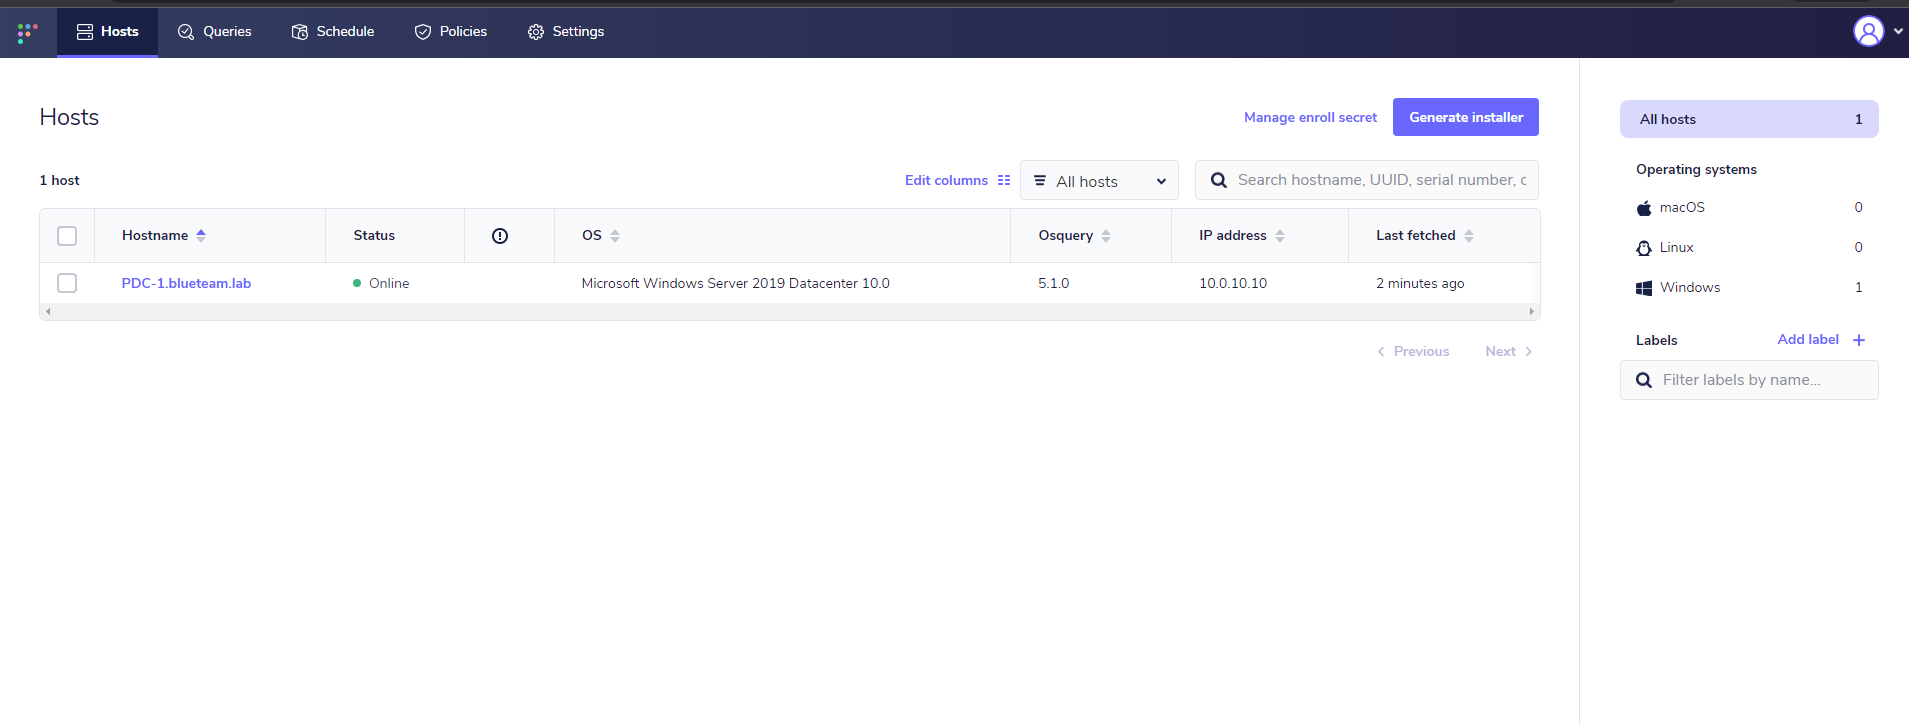
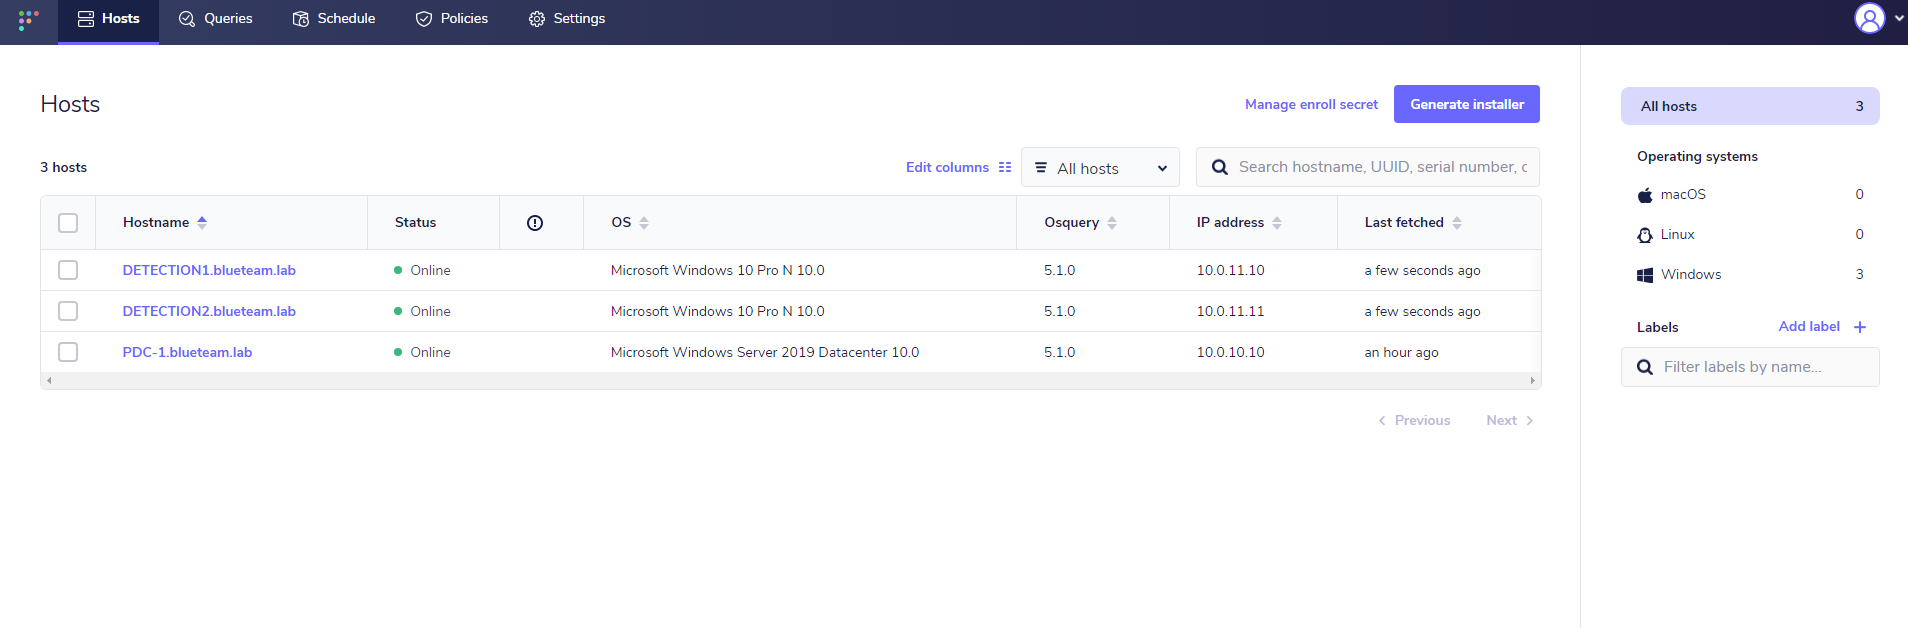
documentation

diff --git a/README.md b/README.md
@@ -1,8 +1,9 @@
 # BlueTeam.Lab
 
 <p align="center">
-  <img src="https://github.com/op7ic/BlueTeam.Lab/blob/main/documentation/pic/logo.PNG?raw=true" alt="BlueTeam.Lab"/>
+  <img src="https://github.com/op7ic/BlueTeam.Lab/blob/master/documentation/pic/logo.PNG" alt="BlueTeam.Lab"/>
 </p>
+
 
 # Purpose
 
@@ -69,14 +70,38 @@ cd ansible && ANSIBLE_CONFIG=./ansible.cfg ansible-inventory -i inventory.azure_
 
 # Once done, destroy your lab using following command:
 terraform destroy -auto-approve
+
+#NOTE: It will take about an hour to configure it all.
 ```
+
+# Deploying Different Windows Versions
+
+Terraform [variables](variables.tf) set the type of operating systems used for the deployment. A simple modification to runtime variables allows to specify different OS to run entire Active Directory on. Default option is to use Windows 10 Enterprise for **Workstations** and Server 2019 Datacenter for **Domain Controller**. Here are examples of few common configuration options that can be used for modify entire enviroment:
+
+```
+# Use Windows 10 Enterprise for Workstations and Server 2019 Datacenter for DC (default option)
+terraform apply -auto-approve
+
+# Use Windows 11 Enterprise for Workstations and Server 2019 Datacenter for DC
+terraform apply -auto-approve  -var="workstation_os=Windows-11" -var="workstation_SKU=win11-21h2-ent" -var="workstations_vm_size=Standard_DC2s_v2" 
+
+# Use Windows 11 Enterprise for Workstations and Server 2012 Datacenter for DC
+terraform apply -auto-approve -var="workstation_os=Windows-11" -var="workstation_SKU=win11-21h2-ent" -var="workstations_vm_size=Standard_DC2s_v2" -var="dc_os=WindowsServer" -var="dc_SKU=2012-Datacenter"
+
+# Use Windows 11 Enterprise for Workstations and Server 2016 Datacenter for DC
+terraform apply -auto-approve -var="workstation_os=Windows-11" -var="workstation_SKU=win11-21h2-ent" -var="workstations_vm_size=Standard_DC2s_v2" -var="dc_os=WindowsServer" -var="dc_SKU=2016-Datacenter"
+
+# Use Windows 10 Pro N for Workstations and Server 2012 Datacenter for DC
+terraform apply -auto-approve -var="workstation_os=Windows-10" -var="workstation_SKU=21h1-pron" -var="dc_os=WindowsServer" -var="dc_SKU=2012-Datacenter"
+```
+
+Command ```az vm image list``` can be used to identify various OS versions for the deployment.
 
 ---
 # Features
 
 - Fully Patched, up to date Windows AD with two workstations connected to Windows domain.
-- Auditing policies configured based on [CIS Guide](https://www.cisecurity.org/blog/prepare-for-your-next-cybersecurity-compliance-audit-with-cis-resources/) to increase event visibility across Windows infrastructure. Auditpol used to configured additional settings.
-- PowerShell Transcript Logs enabled
+- Auditing policies configured based on [CIS Guide](https://www.cisecurity.org/blog/prepare-for-your-next-cybersecurity-compliance-audit-with-cis-resources/) to increase event visibility across Windows infrastructure. [Auditpol](https://www.ultimatewindowssecurity.com/wiki/page.aspx?spid=Auditpol) used to configured additional settings and PowerShell Transcript Logs enabled.
 - [Sysmon64](https://docs.microsoft.com/en-us/sysinternals/downloads/sysmon) deployed across infrastructure using latest [SwiftOnSecurity](https://github.com/SwiftOnSecurity/sysmon-config) configuration for Windows devices.
 - [Wazuh Server](https://wazuh.com/) configured and operational to collect logs from devices.
 - [Wazuh Agents](https://documentation.wazuh.com/current/installation-guide/wazuh-agent/wazuh-agent-package-windows.html) configured across infrastructure and feeding data into Wazuh server.
@@ -97,6 +122,51 @@ The following sections describes various components making up this lab along wit
 - [WinLogBeat](documentation/winlogbeat.md)
 - [Velociraptor Server and Velociraptor Agent](documentation/velociraptor.md)
 - [Domain Members](documentation/winmember.md)
+
+# Credentials
+
+Once lab is constructed, Terraform will print out actual location of the systems and associated credentials. Example output can be found below.
+
+```
+Network Setup:
+
+Domain Controller = x.x.x.x
+Workstation1 = x.x.x.x
+Workstation2 = x.x.x.x
+Wazuh Server IP = x.x.x.x
+Wazuh Web Interface = https://x.x.x.x:443/
+Velociraptor Web Inteface: = https://x.x.x.x:10000/
+FleetDM Web Interface: = https://x.x.x.x:9999/
+
+Credentials:
+
+Domain Admin:
+	blueteam.lab\blueteam BlueTeamDetection0%%%
+Local Admin on Workstations:
+	localadministrator BlueTeamDetection0%%%
+Wazuh Server SSH Login:
+	blueteam BlueTeamDetection0%%%
+Wazuh Logins:
+	wazuh  BlueTeamDetection0%%%
+	admin  BlueTeamDetection0%%%
+	kibanaserver  BlueTeamDetection0%%%
+	kibanaro  BlueTeamDetection0%%%
+	logstash  BlueTeamDetection0%%%
+	readall  BlueTeamDetection0%%%
+	snapshotrestore  BlueTeamDetection0%%%
+	wazuh_admin  BlueTeamDetection0%%%
+	wazuh_user  BlueTeamDetection0%%%
+Velociraptor Web Inteface Login:
+	blueteam BlueTeamDetection0%%%
+FleetDM Web Inteface Login:
+	Created upon setup completion
+
+RDP to your domain controller:
+xfreerdp /v:x.x.x.x /u:blueteam.lab\\blueteam '/p:BlueTeamDetection0%%%' +clipboard /cert-ignore
+
+RDP to a workstation:
+xfreerdp /v:x.x.x.x /u:localadministrator '/p:BlueTeamDetection0%%%' +clipboard /cert-ignore
+```
 
 ---
 # Firewall Configuration
@@ -159,6 +229,8 @@ In order to modify default credentials please change usernames and passwords in 
 ![](./documentation/pic/wazuh-pdc.PNG)
 
 ![](./documentation/pic/winlogbeat2.png)
+
+![](./documentation/pic/Fleetdm.PNG)
 
 
 # Contributing
@@ -269,10 +341,6 @@ Contributions, fixes, and improvements can be submitted directly against this pr
 | - variables.tf
 ```
 
-# Sources of Inspiration and Thanks
-
-A good percentage of this code was borrowed and adapted from Christophe Tafani-Dereeper's [Adaz](https://github.com/christophetd/Adaz). A huge thanks for building the foundation that allowed me to design this lab environment.
-
 # FAQ 
 
 - I get ```Disk wks-1-os-disk already exists in resource group BLUETEAM-LAB. Only CreateOption.Attach is supported.``` or something similar to this error.
@@ -283,3 +351,18 @@ A good percentage of this code was borrowed and adapted from Christophe Tafani-D
 
 - I get ```Network security group windows-nsg cannot be deleted because old references for the following Nics``` or something similar to this error.
   - Re-run terraform commands ```terraform destroy -auto-approve && terraform apply -auto-approve``` to destroy and re-create the lab. This error seems to show up when Azure doesn't clean up all of the resources properly so there are leftovers which needs to be destroyed before lab is created due to clash in names and/or locations.
+  
+- Why Azure?
+  - [Free Credits are available with trial account](https://azure.microsoft.com/en-us/free/)
+
+- How do I modify network segments, deployment size or other variables?
+  - Modify Terraform [variables](variables.tf) file to change your setup. Alternatively, each variable can be changed during runtime by appending ```-var``` to ```terraform apply```. For example, ```terraform apply --auto-approve -var="region=East US 2"``` would modify region to be different then the default set in [variables](variables.tf) file. Using a chain of ```-var``` parameters, entire setup, including network ranges, operating systems and VM size can be changed.
+   
+- How to find SKUs for specific deployment?
+  - Use Azure command ```az vm list-skus --location westeurope --all --output table``` to find SKUs which are available for your deployment.
+  
+# Sources of Inspiration and Thanks
+
+A good percentage of this code was borrowed and adapted from Christophe Tafani-Dereeper's [Adaz](https://github.com/christophetd/Adaz). A huge thanks for building the foundation that allowed me to design this lab environment.
+
+

diff --git a/documentation/osquery.md b/documentation/osquery.md
@@ -1,8 +1,8 @@
-# OSQuery and FleetDM
+#OSQuery
 
-FleetDM-managed instance of OSQuery is deployed across every host in BlueTeam.Lab system and is configured to log data to Fleet Manager installed on the same server where Wazuh instance is.
+Fleet-managed instance of OSQuery is deployed across every host in BlueTeam.Lab system and is configured to log data to Fleet Manager installed on the same server where Wazuh instance is.
 
-Ansible OSQuery deployment task can be found in [ansible/roles/osqueryagent/tasks/main.yml](../ansible/roles/osqueryagent/tasks/main.yml) and corresponding FleetDM in [../ansible/roles/fleetserver/tasks/main.yml](/ansible/roles/fleetserver/tasks/main.yml).
+Ansible OSQuery deployment task can be found in [ansible/roles/osqueryagent/tasks/main.yml](../ansible/roles/osqueryagent/tasks/main.yml) and corresponding FleetDM in [/ansible/roles/fleetserver/tasks/main.yml](../ansible/roles/fleetserver/tasks/main.yml).
 
 In order to modify the configuration of OSQuery and Fleet please change the following config section in [domain_setup.yml](ansible/domain_setup.yml) file.
 ```
@@ -38,11 +38,11 @@ Please note that Ansible deployment task, [ansible/roles/osqueryagent/tasks/main
 
 ## How To Change SSL cetificate
 
-By default pre-generated and self-signed certificates are copied in for clinet-server setup between OSQuery and Fleetdm. In order to change certificates please use following command to generate new ones and place in templates directory for OSQuery [ansible/roles/osqueryagent/templates/](../ansible/roles/osqueryagent/templates/) and Fleetdm server ([ansible/roles/fleetserver/templates/](../ansible/roles/fleetserver/templates/).
+By default pre-generated and self-signed certificates are copied in for client-server setup between OSQuery and Fleetdm. In order to change certificates please use following command to generate new ones and place in templates directory for OSQuery [ansible/roles/osqueryagent/templates/](../ansible/roles/osqueryagent/templates/) and Fleetdm server [ansible/roles/fleetserver/templates/](../ansible/roles/fleetserver/templates/) .
 
 ```
 # openssl req -x509 -nodes -days 365 -newkey rsa:2048 -keyout /tmp/ssl.key -out /tmp/ssl.crt -subj /CN=[IP of Wazuh SERVER] -batch
 # for example: openssl req -x509 -nodes -days 365 -newkey rsa:2048 -keyout /tmp/ssl.key -out /tmp/ssl.crt -subj /CN=10.0.10.100 -batch
 ```
 
-NOTE: In order to pass certificate validation in OSQuery/FleetDM setup, CN needs to have either FQDN or IP of the FleetDM server.
+NOTE: In order to pass certificate validation in OSQuery/FleetDM setup, CN needs to have either FQDN or IP of the FleetDM server. File names are ```ssl.crt``` and ```ssl.key``` for certificate and associated key material. Feel free to change that however you please by editing ansible configuration for [OSQuery](../ansible/roles/osqueryagent/tasks/main.yml) and corresponding [FleetDM Server](../ansible/roles/fleetserver/tasks/main.yml)

diff --git a/documentation/wazuh.md b/documentation/wazuh.md
@@ -1,7 +1,7 @@
 # Wazuh 
 
 ## Wazuh Server
-Wazuh server is configured to run on top of Ubuntu and entire configuration is done using headless scripts located in [/ansible/roles/wazuhserver/templates](../ansible/roles/wazuhserver/templates). 
+Wazuh server is configured to run on top of Ubuntu and entire configuration is done using headless scripts located in [templates folder](../ansible/roles/wazuhserver/templates). 
 
 In order to modify the configuration of Wazuh please change the following config section in [domain_setup.yml](../ansible/domain_setup.yml) file.
 ```
@@ -17,4 +17,4 @@ Please note that the same password, located uner ```wazuh_services_password``` v
 
 ## Wazuh Agent
 
-Wazuh agent is configured to ship logs to authomatically created Wazuh Server so during installation of MSI package, as directed by ```wazuh_admin.agent_url``` variable in [domain_setup.yml](../ansible/domain_setup.yml), IP of the Wazuh Server passed along as one of the parameters. The details of corresponding Ansible task can be found in[/ansible/roles/wazuhagent/tasks/main.yml](../ansible/roles/wazuhagent/tasks/main.yml).
+Wazuh agent is configured to ship logs to authomatically created Wazuh Server so during installation of MSI package, as directed by ```wazuh_admin.agent_url``` variable in [domain_setup.yml](../ansible/domain_setup.yml), IP of the Wazuh Server passed along as one of the parameters. The details of corresponding Ansible task can be found in[/ansible/roles/wazuhagent/tasks/main.yml](../ansible/roles/wazuhagent/tasks/main.yml) along with agent configuration options in [templates folder](../ansible/roles/wazuhagent/templates/).

diff --git a/documentation/velociraptor.md b/documentation/velociraptor.md
@@ -2,7 +2,7 @@
 
 ## Velociraptor server
 
-Velociraptor server is configured to run on top of Ubuntu and entire configuration is done using pre-generated configuration file located in [templates folder](../ansible/roles/velociraptorserver/templates). If you would like to modify this setup please change [Ansible task](../ansible/roles/velociraptorserver/tasks/main.yml).
+Velociraptor server is configured to run on top of Ubuntu (Wazuh Server) and entire configuration is done using pre-generated configuration file located in [templates folder](../ansible/roles/velociraptorserver/templates). If you would like to modify this setup please change [Ansible task](../ansible/roles/velociraptorserver/tasks/main.yml).
 
 In order to modify the configuration of Velociraptor Server please change the following config section in [domain_setup.yml](../ansible/domain_setup.yml) file.
 ```
@@ -14,7 +14,7 @@ velociraptor_server:
   password: BlueTeamDetection0%%%
 ```
 
-```Username``` and ```Password``` parameters refer to web login for Velociraptor Server console. 
+```Username``` and ```Password``` parameters refer to web login for Velociraptor Server console and corresponds to installation scripts which can be found in [templates folder](../ansible/roles/velociraptorserver/templates). 
 
 
 ## Velociraptor Agent

diff --git a/documentation/winmember.md b/documentation/winmember.md
@@ -87,3 +87,15 @@ workstation_configuration:
 - name: DETECTION1
   local_admins: [john, karen, florence]
 ```
+
+## Slow setup for workstations
+
+During my tests I noticed that Azure appears to slow down boot time for some of the systems over time. Simply put, initially Azure creation is very quick but with subsequent rebuilding process it appears to slow down. To counter this effect, and reduce potential for any timeouts, when windows system is rebooted, the following timeout parameters are added to ensure that even if we have slow start, ansible playbooks won't quit the setup process:
+
+```
+  win_reboot:
+    reboot_timeout: 3600
+    post_reboot_delay: 120
+```
+
+If you would like to change this, please edit ansible setup file [ansible/roles/domain-member/tasks/main.yml](../ansible/roles/domain-member/tasks/main.yml).
